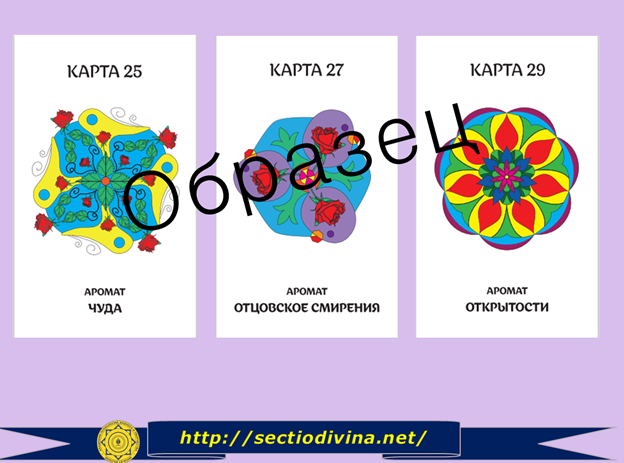
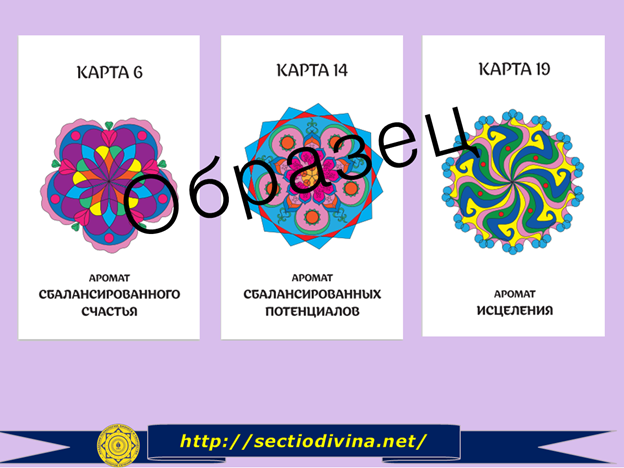
обновил код

diff --git a/index.html b/index.html
@@ -53,17 +53,14 @@
       <div class="position-card">
         <div class="info infos1" id="info1">
           <h1 class="main-text1">Карта № 1</h1>
-          <h2 class="main-text2">Аромат Чуда.</h2>
+          <h2 class="main-text2">Аромат сбалансированного счастья.</h2>
           <p class="cart1">
-            *Появление этой карты в раскладе говорит о том, что вы сейчас находитесь в состоянии, которое заставляет вас необоснованно жаловаться на происходящее. Вы не доверяете миру и его возможностям? Проанализируйте, как часто в последнее время, вы были недовольны своей жизнью? Кого вы вините в своих неудачах? Не стало ли такое поведение для вас определенной привычкой?
-* Как не растеряться в сложные жизненные моменты? Конечно, легче всего роптать, но попробуйте сконцентрироваться на решении проблемы! Прежде всего:
-- Перестаньте искать виноватых. Возьмите целиком и полностью ответственность за возникшую ситуацию на себя.
-- Думайте позитивно! Негативные мысли и эмоции разрушают вас и наносят только вред.
-- Живите по принципу - появилась трудность (задача), значит есть и ее решение.
-- Избегайте людей, которые постоянно недовольны. 
-- Верьте в себя, в свои собственные силы и возможности. И тогда волшебство обязательно случиться.
-*Помните о том, что все наши жалобы на то, что жизнь сложна и невыносима, на то, что, мы чего-то лишены, появляются от недостатка благодарности за то, что мы имеем.
-
+            *Появление этой карты в раскладе говорит о том, что пришла пора пересмотреть вашу позицию в отношении брать и давать. Проанализируйте ваши взаимоотношения с окружающими, родственниками, друзьями, коллегами:
+-  Где происходит дисбаланс? 
+- Насколько вы умеете принимать дары Вселенной в любом виде и насколько взвешенно вы можете отдавать то, что необходимо отдать. 
+- Есть ли у вас проблемы со «спасательством»? Пытаетесь ли вы спасать кого-то, даже если вас об этом не просят. Что происходит в результате?
+- Как давно вы чувствовали себя счастливым и беззаботным? 
+- Устраивает ли вас ваше настоящее?
             <div class="number-cart">
               Пишите номер карты нам в ответном письме и получите доступ к медитации на платформе геткурс.
             </div> 
@@ -77,10 +74,10 @@
   
         <div class="info infos1" id="info2">
           <h4 class="main-text3">Карта № 2</h4>
-          <h5 class="main-text4">Аромат отцовского смирения.</h5>
+          <h5 class="main-text4">Аромат сбалансированных потенциалов.</h5>
           <p class="cart2">
-            * Появление этой карты в раскладе говорит о том, что сейчас пришло время разобраться с вашими привычками и установками, которые приводят к повторяющимся негативным событиям. Например, вы не можете найти общий язык с окружающими. Часто ссоритесь, обвиняя, конечно, не себя. Или на вашем пути нередко встречаются люди, которые вас предают. А, может быть, вы постоянно испытываете финансовые затруднения.  
-* Проще всего продолжать думать, что вы здесь ни при чем. Но, если сейчас вы читаете эти строки, значит вселенная предлагает вам шанс выхода из установок, привычек и шаблонов. Воспользуйтесь им. 
+            * Появление этой карты в раскладе говорит о том, что сейчас для вас важно создать баланс между духовным и материальным аспектами вашей жизни. Проанализируйте, не отрицаете ли вы один из этих аспектов. Или не придаете ли намного больше значения духовной или материальной стороне вашей жизни.
+*Необходимо помнить, что счастье и душевный покой приходят тогда, когда наши духовные и материальные интересы сбалансированы. Когда мы не хотим больше того, что нам нужно, но и не отказываем себе в своих желаниях. Когда мы идем своей дорогой, занимаемся своим делом, не стесняемся брать деньги за свою работу, но при этом честны и щедры и умеем ценить то, что дает жизнь.
             <div class="number-cart">
               Пишите номер карты нам в ответном письме и получите доступ к медитации на платформе геткурс.
             </div> 
@@ -95,11 +92,16 @@
             Карта № 3 
           </h6>
           <h7 class="main-text6">
-            Аромат Открытости.
+            Аромат исцеления.
           </h7>
           <p class="cart3">
-            * Появление этой карты в раскладе говорит о том, что сейчас вам необходимо понять, какая роль в вашей жизни мешает достижению вами каких-то желанных высот. Роль жертвы? А, может быть, вечного контролера? Человека, которому некогда заниматься собственной жизнью, потому что он слишком много времени и сил уделяет другим?
-            *Проанализируйте, насколько вы верите в себя? В свои способности, навыки, потенциал? Как часто вы пасуете перед трудностями, не веря в собственные силы?
+            * Появление этой карты в раскладе говорит о том, что тема исцеления сейчас как никогда близка вам. Путь к исцелению всегда начинается через самопознание. Вы единственный, кто сможет себе помочь. Давайте раскроем ваши возможности по исцелению:
+- У вас есть собственные силы на исцеление.
+- Ваше исцеление — ваша ответственность
+- Исцелите душу, а следом исцелятся разум и тело
+- Единственный способ действовать — изменяться
+- Прощение освобождает вас, а благодарность и любовь исцеляет
+* Быть целостным – значит погружаться в себя всем сердцем и с пониманием встречать даже отсутствие любви, даже свою бессердечность. Быть целостным – значит принимать, действовать без насилия, меняться, доверять происходящему.
             <div class="number-cart">
               Пишите номер карты нам в ответном письме и получите доступ к медитации на платформе геткурс.
             </div> 
